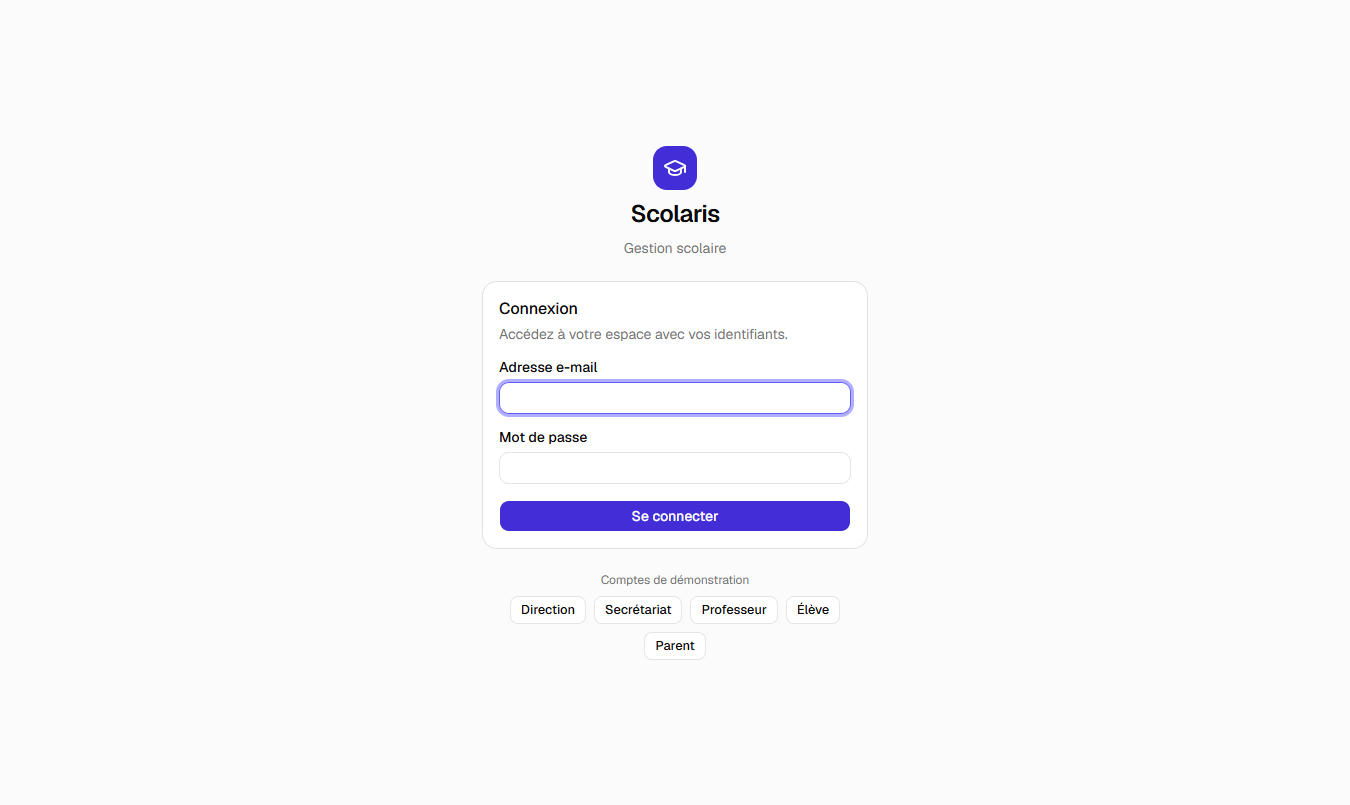
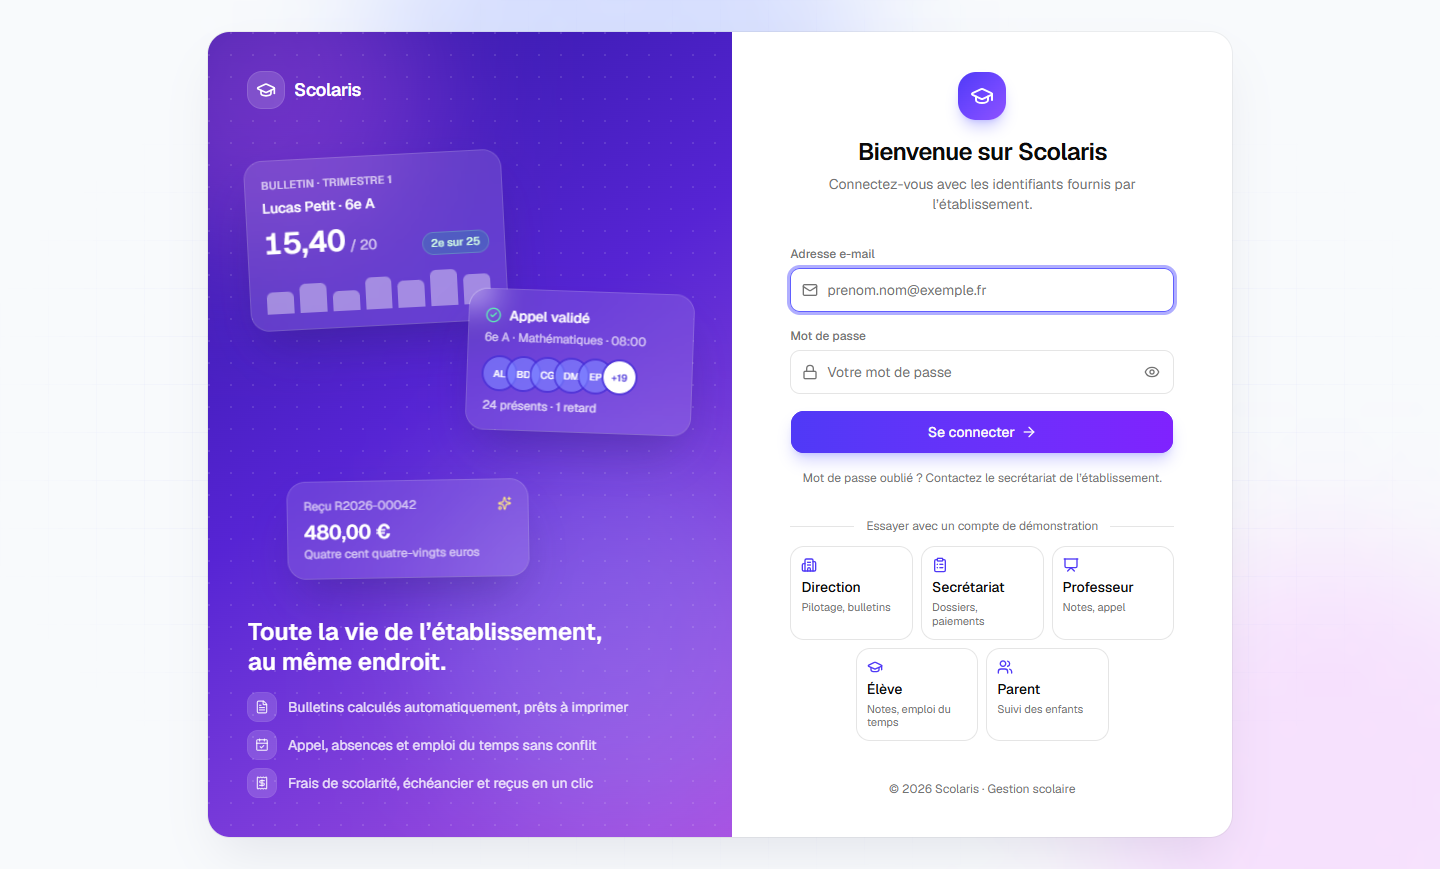
style(frontend): refonte de la page de connexion
- Mise en page en deux panneaux dans un cadre arrondi, sur fond décoratif
- Panneau vitrine aux couleurs de la marque avec aperçus flottants de
  l'application (animation désactivée si l'utilisateur réduit les animations)
- Champs avec icônes, affichage du mot de passe, bouton en dégradé
- Comptes de démonstration présentés par profil, connexion en un clic
- Version mobile : formulaire seul, plein écran

diff --git a/frontend/src/features/auth/LoginPage.tsx b/frontend/src/features/auth/LoginPage.tsx
@@ -1,29 +1,46 @@
 import { zodResolver } from '@hookform/resolvers/zod'
-import { AlertCircle, GraduationCap, Loader2 } from 'lucide-react'
+import {
+  AlertCircle,
+  ArrowRight,
+  Building2,
+  ClipboardList,
+  Eye,
+  EyeOff,
+  GraduationCap,
+  Loader2,
+  Lock,
+  Mail,
+  Presentation,
+  Users,
+  type LucideIcon,
+} from 'lucide-react'
 import { useState } from 'react'
 import { useForm } from 'react-hook-form'
 import { Alert, AlertDescription } from '@/components/ui/alert'
 import { Button } from '@/components/ui/button'
-import { Card, CardContent, CardDescription, CardHeader, CardTitle } from '@/components/ui/card'
 import { Input } from '@/components/ui/input'
 import { Label } from '@/components/ui/label'
 import { applyValidationErrors, getErrorMessage } from '@/lib/api'
+import { cn } from '@/lib/utils'
 import { useAuth } from './auth-context'
+import { Vitrine } from './components/Vitrine'
 import { loginSchema, type LoginValues } from './schemas'
 
 const AFFICHER_DEMO = import.meta.env.VITE_SHOW_DEMO_ACCOUNTS === 'true'
+const ANNEE = new Date().getFullYear()
 
-const COMPTES_DEMO = [
-  { libelle: 'Direction', email: 'admin@scolaris.test' },
-  { libelle: 'Secrétariat', email: 'secretariat@scolaris.test' },
-  { libelle: 'Professeur', email: 'professeur@scolaris.test' },
-  { libelle: 'Élève', email: 'eleve@scolaris.test' },
-  { libelle: 'Parent', email: 'parent@scolaris.test' },
+const COMPTES_DEMO: { libelle: string; detail: string; email: string; icone: LucideIcon }[] = [
+  { libelle: 'Direction', detail: 'Pilotage, bulletins', email: 'admin@scolaris.test', icone: Building2 },
+  { libelle: 'Secrétariat', detail: 'Dossiers, paiements', email: 'secretariat@scolaris.test', icone: ClipboardList },
+  { libelle: 'Professeur', detail: 'Notes, appel', email: 'professeur@scolaris.test', icone: Presentation },
+  { libelle: 'Élève', detail: 'Notes, emploi du temps', email: 'eleve@scolaris.test', icone: GraduationCap },
+  { libelle: 'Parent', detail: 'Suivi des enfants', email: 'parent@scolaris.test', icone: Users },
 ]
 
 export function LoginPage() {
   const { login } = useAuth()
   const [erreur, setErreur] = useState<string | null>(null)
+  const [motDePasseVisible, setMotDePasseVisible] = useState(false)
 
   const form = useForm<LoginValues>({
     resolver: zodResolver(loginSchema),
@@ -43,28 +60,35 @@ export function LoginPage() {
     }
   })
 
-  const remplirDemo = (email: string) => {
+  /** Compte de démonstration : remplit le formulaire et se connecte directement. */
+  const essayer = (email: string) => {
     form.setValue('email', email, { shouldValidate: true })
     form.setValue('password', 'password', { shouldValidate: true })
+    void onSubmit()
   }
 
   return (
-    <div className="flex min-h-svh items-center justify-center bg-muted/40 p-4">
-      <div className="w-full max-w-sm space-y-6">
-        <div className="flex flex-col items-center gap-2 text-center">
-          <div className="flex size-11 items-center justify-center rounded-xl bg-primary text-primary-foreground">
-            <GraduationCap className="size-6" />
-          </div>
-          <h1 className="text-2xl font-semibold tracking-tight">Scolaris</h1>
-          <p className="text-sm text-muted-foreground">Gestion scolaire</p>
-        </div>
+    <div className="relative flex min-h-svh items-center justify-center overflow-hidden bg-slate-50 p-4 sm:p-8 dark:bg-background">
+      {/* Fond décoratif : halos de couleur et trame légère */}
+      <div aria-hidden className="pointer-events-none absolute inset-0">
+        <div className="absolute -top-40 left-1/4 size-[32rem] rounded-full bg-indigo-300/40 blur-3xl dark:bg-indigo-900/40" />
+        <div className="absolute -right-32 -bottom-40 size-[30rem] rounded-full bg-fuchsia-300/30 blur-3xl dark:bg-fuchsia-900/30" />
+        <div className="absolute inset-0 bg-[linear-gradient(to_right,rgb(99_102_241/0.06)_1px,transparent_1px),linear-gradient(to_bottom,rgb(99_102_241/0.06)_1px,transparent_1px)] [background-size:48px_48px] [mask-image:radial-gradient(ellipse_at_center,black_40%,transparent_75%)]" />
+      </div>
 
-        <Card>
-          <CardHeader>
-            <CardTitle>Connexion</CardTitle>
-            <CardDescription>Accédez à votre espace avec vos identifiants.</CardDescription>
-          </CardHeader>
-          <CardContent>
+      <main className="relative grid w-full max-w-5xl overflow-hidden rounded-3xl bg-background shadow-2xl ring-1 shadow-indigo-950/10 ring-black/5 lg:min-h-[40rem] lg:grid-cols-[1.05fr_1fr] dark:ring-white/10">
+        <Vitrine />
+
+        <section className="flex flex-col justify-center px-6 py-10 sm:px-12 lg:px-14">
+          <div className="mx-auto w-full max-w-sm">
+            <div className="mb-8 flex flex-col items-center text-center">
+              <div className="mb-4 flex size-12 items-center justify-center rounded-2xl bg-gradient-to-br from-indigo-600 to-violet-500 text-white shadow-lg shadow-indigo-500/30">
+                <GraduationCap className="size-6" />
+              </div>
+              <h1 className="text-2xl font-semibold tracking-tight">Bienvenue sur Scolaris</h1>
+              <p className="mt-1.5 text-sm text-muted-foreground">Connectez-vous avec les identifiants fournis par l’établissement.</p>
+            </div>
+
             <form onSubmit={onSubmit} noValidate className="space-y-4">
               {erreur && (
                 <Alert variant="destructive">
@@ -73,58 +97,114 @@ export function LoginPage() {
                 </Alert>
               )}
 
-              <div className="space-y-2">
-                <Label htmlFor="email">Adresse e-mail</Label>
-                <Input
-                  id="email"
-                  type="email"
-                  autoComplete="username"
-                  autoFocus
-                  aria-invalid={!!errors.email}
-                  {...form.register('email')}
-                />
-                {errors.email && <p className="text-sm text-destructive">{errors.email.message}</p>}
+              <div className="space-y-1.5">
+                <Label htmlFor="email" className="text-xs text-muted-foreground">
+                  Adresse e-mail
+                </Label>
+                <div className="relative">
+                  <Mail className="pointer-events-none absolute top-1/2 left-3 size-4 -translate-y-1/2 text-muted-foreground" />
+                  <Input
+                    id="email"
+                    type="email"
+                    autoComplete="username"
+                    autoFocus
+                    placeholder="prenom.nom@exemple.fr"
+                    className="h-11 pl-9"
+                    aria-invalid={!!errors.email}
+                    aria-describedby={errors.email ? 'email-erreur' : undefined}
+                    {...form.register('email')}
+                  />
+                </div>
+                {errors.email && (
+                  <p id="email-erreur" className="text-sm text-destructive">
+                    {errors.email.message}
+                  </p>
+                )}
               </div>
 
-              <div className="space-y-2">
-                <Label htmlFor="password">Mot de passe</Label>
-                <Input
-                  id="password"
-                  type="password"
-                  autoComplete="current-password"
-                  aria-invalid={!!errors.password}
-                  {...form.register('password')}
-                />
-                {errors.password && <p className="text-sm text-destructive">{errors.password.message}</p>}
+              <div className="space-y-1.5">
+                <Label htmlFor="password" className="text-xs text-muted-foreground">
+                  Mot de passe
+                </Label>
+                <div className="relative">
+                  <Lock className="pointer-events-none absolute top-1/2 left-3 size-4 -translate-y-1/2 text-muted-foreground" />
+                  <Input
+                    id="password"
+                    type={motDePasseVisible ? 'text' : 'password'}
+                    autoComplete="current-password"
+                    placeholder="Votre mot de passe"
+                    className="h-11 pr-10 pl-9"
+                    aria-invalid={!!errors.password}
+                    aria-describedby={errors.password ? 'password-erreur' : undefined}
+                    {...form.register('password')}
+                  />
+                  <button
+                    type="button"
+                    onClick={() => setMotDePasseVisible((v) => !v)}
+                    aria-label={motDePasseVisible ? 'Masquer le mot de passe' : 'Afficher le mot de passe'}
+                    aria-pressed={motDePasseVisible}
+                    className="absolute top-1/2 right-1.5 flex size-8 -translate-y-1/2 items-center justify-center rounded-md text-muted-foreground transition-colors hover:bg-accent hover:text-foreground"
+                  >
+                    {motDePasseVisible ? <EyeOff className="size-4" /> : <Eye className="size-4" />}
+                  </button>
+                </div>
+                {errors.password && (
+                  <p id="password-erreur" className="text-sm text-destructive">
+                    {errors.password.message}
+                  </p>
+                )}
               </div>
 
-              <Button type="submit" className="w-full" disabled={isSubmitting}>
-                {isSubmitting && <Loader2 className="animate-spin" />}
-                Se connecter
-              </Button>
-            </form>
-          </CardContent>
-        </Card>
-
-        {AFFICHER_DEMO && (
-        <div className="space-y-2 text-center">
-          <p className="text-xs text-muted-foreground">Comptes de démonstration</p>
-          <div className="flex flex-wrap justify-center gap-2">
-            {COMPTES_DEMO.map((compte) => (
               <Button
-                key={compte.email}
-                type="button"
-                variant="outline"
-                size="sm"
-                onClick={() => remplirDemo(compte.email)}
+                type="submit"
+                className="h-11 w-full rounded-xl bg-gradient-to-r from-indigo-600 to-violet-600 text-sm shadow-lg shadow-indigo-500/25 hover:from-indigo-700 hover:to-violet-700"
+                disabled={isSubmitting}
               >
-                {compte.libelle}
+                {isSubmitting ? <Loader2 className="animate-spin" /> : null}
+                Se connecter
+                {!isSubmitting && <ArrowRight />}
               </Button>
-            ))}
+
+              <p className="text-center text-xs text-muted-foreground">
+                Mot de passe oublié ? Contactez le secrétariat de l’établissement.
+              </p>
+            </form>
+
+            {AFFICHER_DEMO && (
+              <div className="mt-8">
+                <div className="mb-3 flex items-center gap-3 text-xs text-muted-foreground">
+                  <span className="h-px flex-1 bg-border" />
+                  Essayer avec un compte de démonstration
+                  <span className="h-px flex-1 bg-border" />
+                </div>
+                <div className="flex flex-wrap justify-center gap-2">
+                  {COMPTES_DEMO.map(({ libelle, detail, email, icone: Icone }, i) => (
+                    <button
+                      key={email}
+                      type="button"
+                      onClick={() => essayer(email)}
+                      disabled={isSubmitting}
+                      title={email}
+                      className={cn(
+                        'group flex flex-col items-start gap-1 rounded-xl border bg-background p-2.5 text-left transition-all hover:-translate-y-0.5 hover:border-indigo-300 hover:shadow-md hover:shadow-indigo-500/10 disabled:opacity-60',
+                        'w-[calc(50%-0.25rem)] sm:w-[calc(33.333%-0.34rem)]',
+                        // Le dernier compte occupe toute la ligne sur mobile (5 comptes, 2 colonnes)
+                        i === COMPTES_DEMO.length - 1 && 'w-full sm:w-[calc(33.333%-0.34rem)]',
+                      )}
+                    >
+                      <Icone className="size-4 text-indigo-600 transition-transform group-hover:scale-110" />
+                      <span className="text-sm font-medium">{libelle}</span>
+                      <span className="text-[11px] leading-tight text-muted-foreground">{detail}</span>
+                    </button>
+                  ))}
+                </div>
+              </div>
+            )}
+
+            <p className="mt-10 text-center text-xs text-muted-foreground">© {ANNEE} Scolaris · Gestion scolaire</p>
           </div>
-        </div>
-        )}
-      </div>
+        </section>
+      </main>
     </div>
   )
 }

diff --git a/frontend/src/features/auth/components/Vitrine.tsx b/frontend/src/features/auth/components/Vitrine.tsx
@@ -1,0 +1,105 @@
+import { CalendarCheck, CheckCircle2, FileText, GraduationCap, Receipt, Sparkles } from 'lucide-react'
+import type { ReactNode } from 'react'
+import { cn } from '@/lib/utils'
+
+const ATOUTS = [
+  { icone: FileText, texte: 'Bulletins calculés automatiquement, prêts à imprimer' },
+  { icone: CalendarCheck, texte: 'Appel, absences et emploi du temps sans conflit' },
+  { icone: Receipt, texte: 'Frais de scolarité, échéancier et reçus en un clic' },
+]
+
+/**
+ * Panneau visuel de la page de connexion : dégradé de la marque et aperçus « flottants »
+ * de l'application. Purement décoratif (aria-hidden), masqué sur mobile.
+ */
+export function Vitrine() {
+  return (
+    <div
+      aria-hidden
+      className="relative hidden overflow-hidden bg-[linear-gradient(145deg,oklch(0.36_0.2_277)_0%,oklch(0.46_0.24_285)_45%,oklch(0.6_0.22_310)_100%)] p-10 text-white lg:flex lg:flex-col"
+    >
+      {/* Halos et trame décoratifs */}
+      <div className="absolute -top-24 -left-24 size-80 rounded-full bg-fuchsia-400/30 blur-3xl" />
+      <div className="absolute -right-20 bottom-0 size-96 rounded-full bg-indigo-300/25 blur-3xl" />
+      <div className="absolute inset-0 bg-[radial-gradient(circle_at_1px_1px,rgb(255_255_255/0.12)_1px,transparent_0)] [background-size:22px_22px]" />
+
+      <div className="relative flex items-center gap-2.5">
+        <div className="flex size-9 items-center justify-center rounded-xl bg-white/15 ring-1 ring-white/25 backdrop-blur">
+          <GraduationCap className="size-5" />
+        </div>
+        <span className="text-lg font-semibold tracking-tight">Scolaris</span>
+      </div>
+
+      {/* Aperçus de l'application */}
+      <div className="relative my-10 flex-1">
+        <CarteFlottante className="top-2 left-0 w-64 -rotate-3 motion-safe:animate-[flotter_7s_ease-in-out_infinite]">
+          <p className="text-[11px] font-medium tracking-wide text-white/70 uppercase">Bulletin · Trimestre 1</p>
+          <p className="mt-1 text-sm font-medium">Lucas Petit · 6e A</p>
+          <div className="mt-2 flex items-end justify-between">
+            <p className="text-3xl font-semibold tabular-nums">
+              15,40<span className="ml-1 text-sm font-normal text-white/70">/ 20</span>
+            </p>
+            <span className="rounded-full bg-emerald-400/20 px-2 py-0.5 text-[11px] font-medium text-emerald-100 ring-1 ring-emerald-300/40">
+              2e sur 25
+            </span>
+          </div>
+          <div className="mt-3 flex h-10 items-end gap-1.5">
+            {[55, 72, 48, 80, 66, 90, 74].map((h, i) => (
+              <span key={i} className="w-full rounded-t-sm bg-white/40" style={{ height: `${h}%` }} />
+            ))}
+          </div>
+        </CarteFlottante>
+
+        <CarteFlottante className="top-36 right-0 w-56 rotate-2 motion-safe:animate-[flotter_8s_ease-in-out_1s_infinite]">
+          <div className="flex items-center gap-2">
+            <CheckCircle2 className="size-4 text-emerald-300" />
+            <p className="text-sm font-medium">Appel validé</p>
+          </div>
+          <p className="mt-1 text-xs text-white/70">6e A · Mathématiques · 08:00</p>
+          <div className="mt-3 flex -space-x-2">
+            {['AL', 'BD', 'CG', 'DM', 'EP'].map((initiales) => (
+              <span key={initiales} className="flex size-8 items-center justify-center rounded-full bg-indigo-400/60 text-[10px] font-medium ring-2 ring-indigo-700/70">
+                {initiales}
+              </span>
+            ))}
+            <span className="flex size-8 items-center justify-center rounded-full bg-white text-[10px] font-semibold text-indigo-700 ring-2 ring-indigo-700/70">
+              +19
+            </span>
+          </div>
+          <p className="mt-2 text-xs text-white/80">24 présents · 1 retard</p>
+        </CarteFlottante>
+
+        <CarteFlottante className="bottom-0 left-10 w-60 -rotate-1 motion-safe:animate-[flotter_9s_ease-in-out_0.5s_infinite]">
+          <div className="flex items-center justify-between">
+            <p className="text-xs text-white/70">Reçu R2026-00042</p>
+            <Sparkles className="size-3.5 text-amber-200" />
+          </div>
+          <p className="mt-1 text-xl font-semibold tabular-nums">480,00 €</p>
+          <p className="text-xs text-white/70">Quatre cent quatre-vingts euros</p>
+        </CarteFlottante>
+      </div>
+
+      <div className="relative space-y-4">
+        <h2 className="text-2xl leading-tight font-semibold text-balance">Toute la vie de l’établissement, au même endroit.</h2>
+        <ul className="space-y-2.5">
+          {ATOUTS.map(({ icone: Icone, texte }) => (
+            <li key={texte} className="flex items-center gap-3 text-sm text-white/85">
+              <span className="flex size-7 shrink-0 items-center justify-center rounded-lg bg-white/15 ring-1 ring-white/20">
+                <Icone className="size-3.5" />
+              </span>
+              {texte}
+            </li>
+          ))}
+        </ul>
+      </div>
+    </div>
+  )
+}
+
+function CarteFlottante({ className, children }: { className?: string; children: ReactNode }) {
+  return (
+    <div className={cn('absolute rounded-2xl bg-white/12 p-4 shadow-2xl shadow-indigo-950/30 ring-1 ring-white/25 backdrop-blur-md', className)}>
+      {children}
+    </div>
+  )
+}

diff --git a/frontend/src/index.css b/frontend/src/index.css
@@ -131,3 +131,8 @@
     @apply font-sans;
     }
 }
+/* Aperçus flottants de la page de connexion (désactivés si l'utilisateur réduit les animations) */
+@keyframes flotter {
+  0%, 100% { translate: 0 0; }
+  50% { translate: 0 -10px; }
+}

diff --git a/README.md b/README.md
@@ -33,6 +33,8 @@ des cinq profils : direction, secrétariat, professeur, élève et parent.
 
 ## Captures d'écran
 
+![Page de connexion](docs/captures/01-connexion.png)
+
 | | |
 |---|---|
 | ![Grille de saisie des notes](docs/captures/06-grille-de-notes.png) **Saisie des notes en grille** (navigation clavier, statistiques en direct) | ![Bulletins d'une classe](docs/captures/07-bulletins-classe.png) **Bulletins d'une classe** : calculer, valider, générer les PDF |
